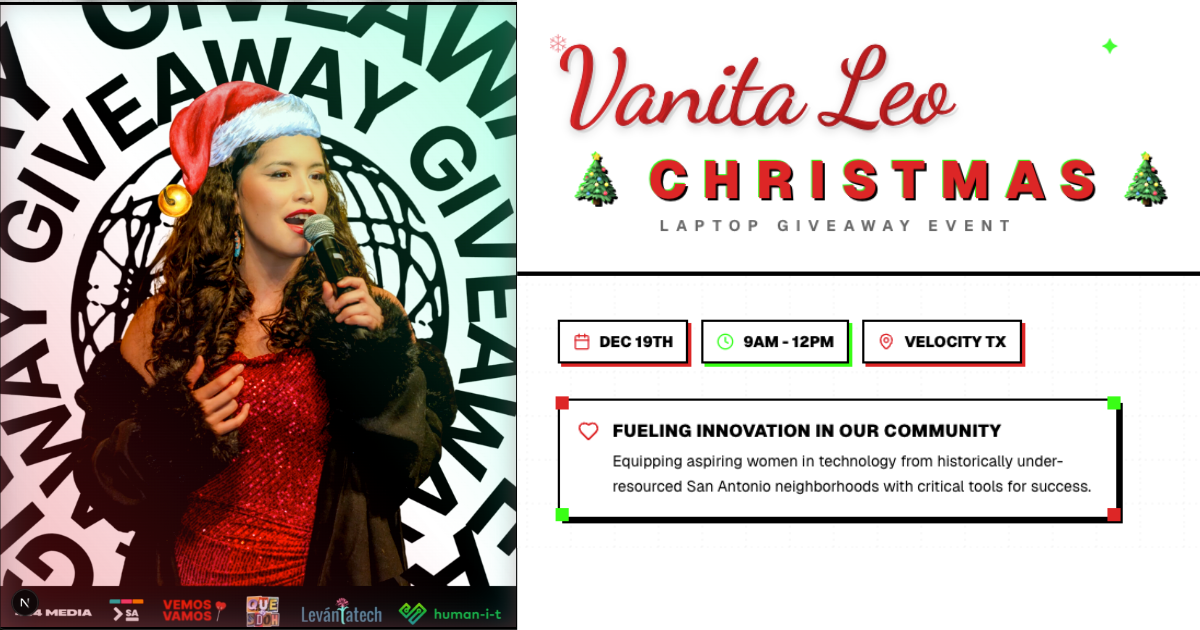
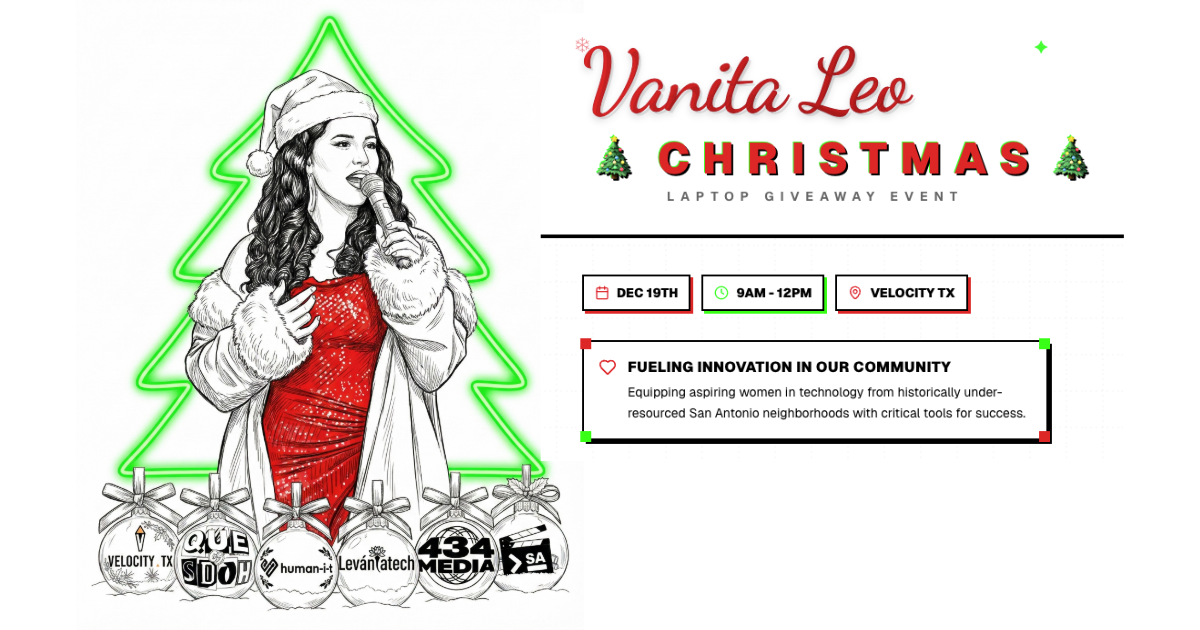
og review

diff --git a/app/events/vanitaleochristmas/layout.tsx b/app/events/vanitaleochristmas/layout.tsx
@@ -30,10 +30,10 @@ export const metadata: Metadata = {
     siteName: "Vanita Leo Christmas",
     images: [
       {
-        url: "https://ampd-asset.s3.us-east-2.amazonaws.com/vanitachristmas.png",
+        url: '/events/vanitaleochristmas/opengraph-image.png',
         width: 1200,
         height: 630,
-        alt: "Vanita Leo Christmas laptop Giveaway",
+        alt: 'Vanita Leo Christmas Laptop Giveaway',
       },
     ],
     locale: "en_US",
@@ -43,7 +43,7 @@ export const metadata: Metadata = {
     card: "summary_large_image",
     title: "Vanita Leo Christmas Laptop Giveaway",
     description: "Equipping aspiring women in technology from historically under-resourced San Antonio neighborhoods with critical tools for success.",
-    images: ["https://ampd-asset.s3.us-east-2.amazonaws.com/vanitachristmas.png"],
+    images: ['/events/vanitaleochristmas/opengraph-image.png'],
     creator: "@digitalcanvas",
   },
   robots: {

diff --git a/app/events/vanitaleochristmas/page.tsx b/app/events/vanitaleochristmas/page.tsx
@@ -9,11 +9,13 @@ export const metadata: Metadata = {
     title: "Vanita Leo Christmas Laptop Giveaway",
     description: "Equipping aspiring women in technology from historically under-resourced San Antonio neighborhoods with critical tools for success.",
     type: "website",
+    images: ['/events/vanitaleochristmas/opengraph-image.png'],
   },
   twitter: {
     card: "summary_large_image",
     title: "Vanita Leo Christmas Laptop Giveaway",
     description: "Equipping aspiring women in technology from historically under-resourced San Antonio neighborhoods with critical tools for success.",
+    images: ['/events/vanitaleochristmas/opengraph-image.png'],
   },
 }
 
